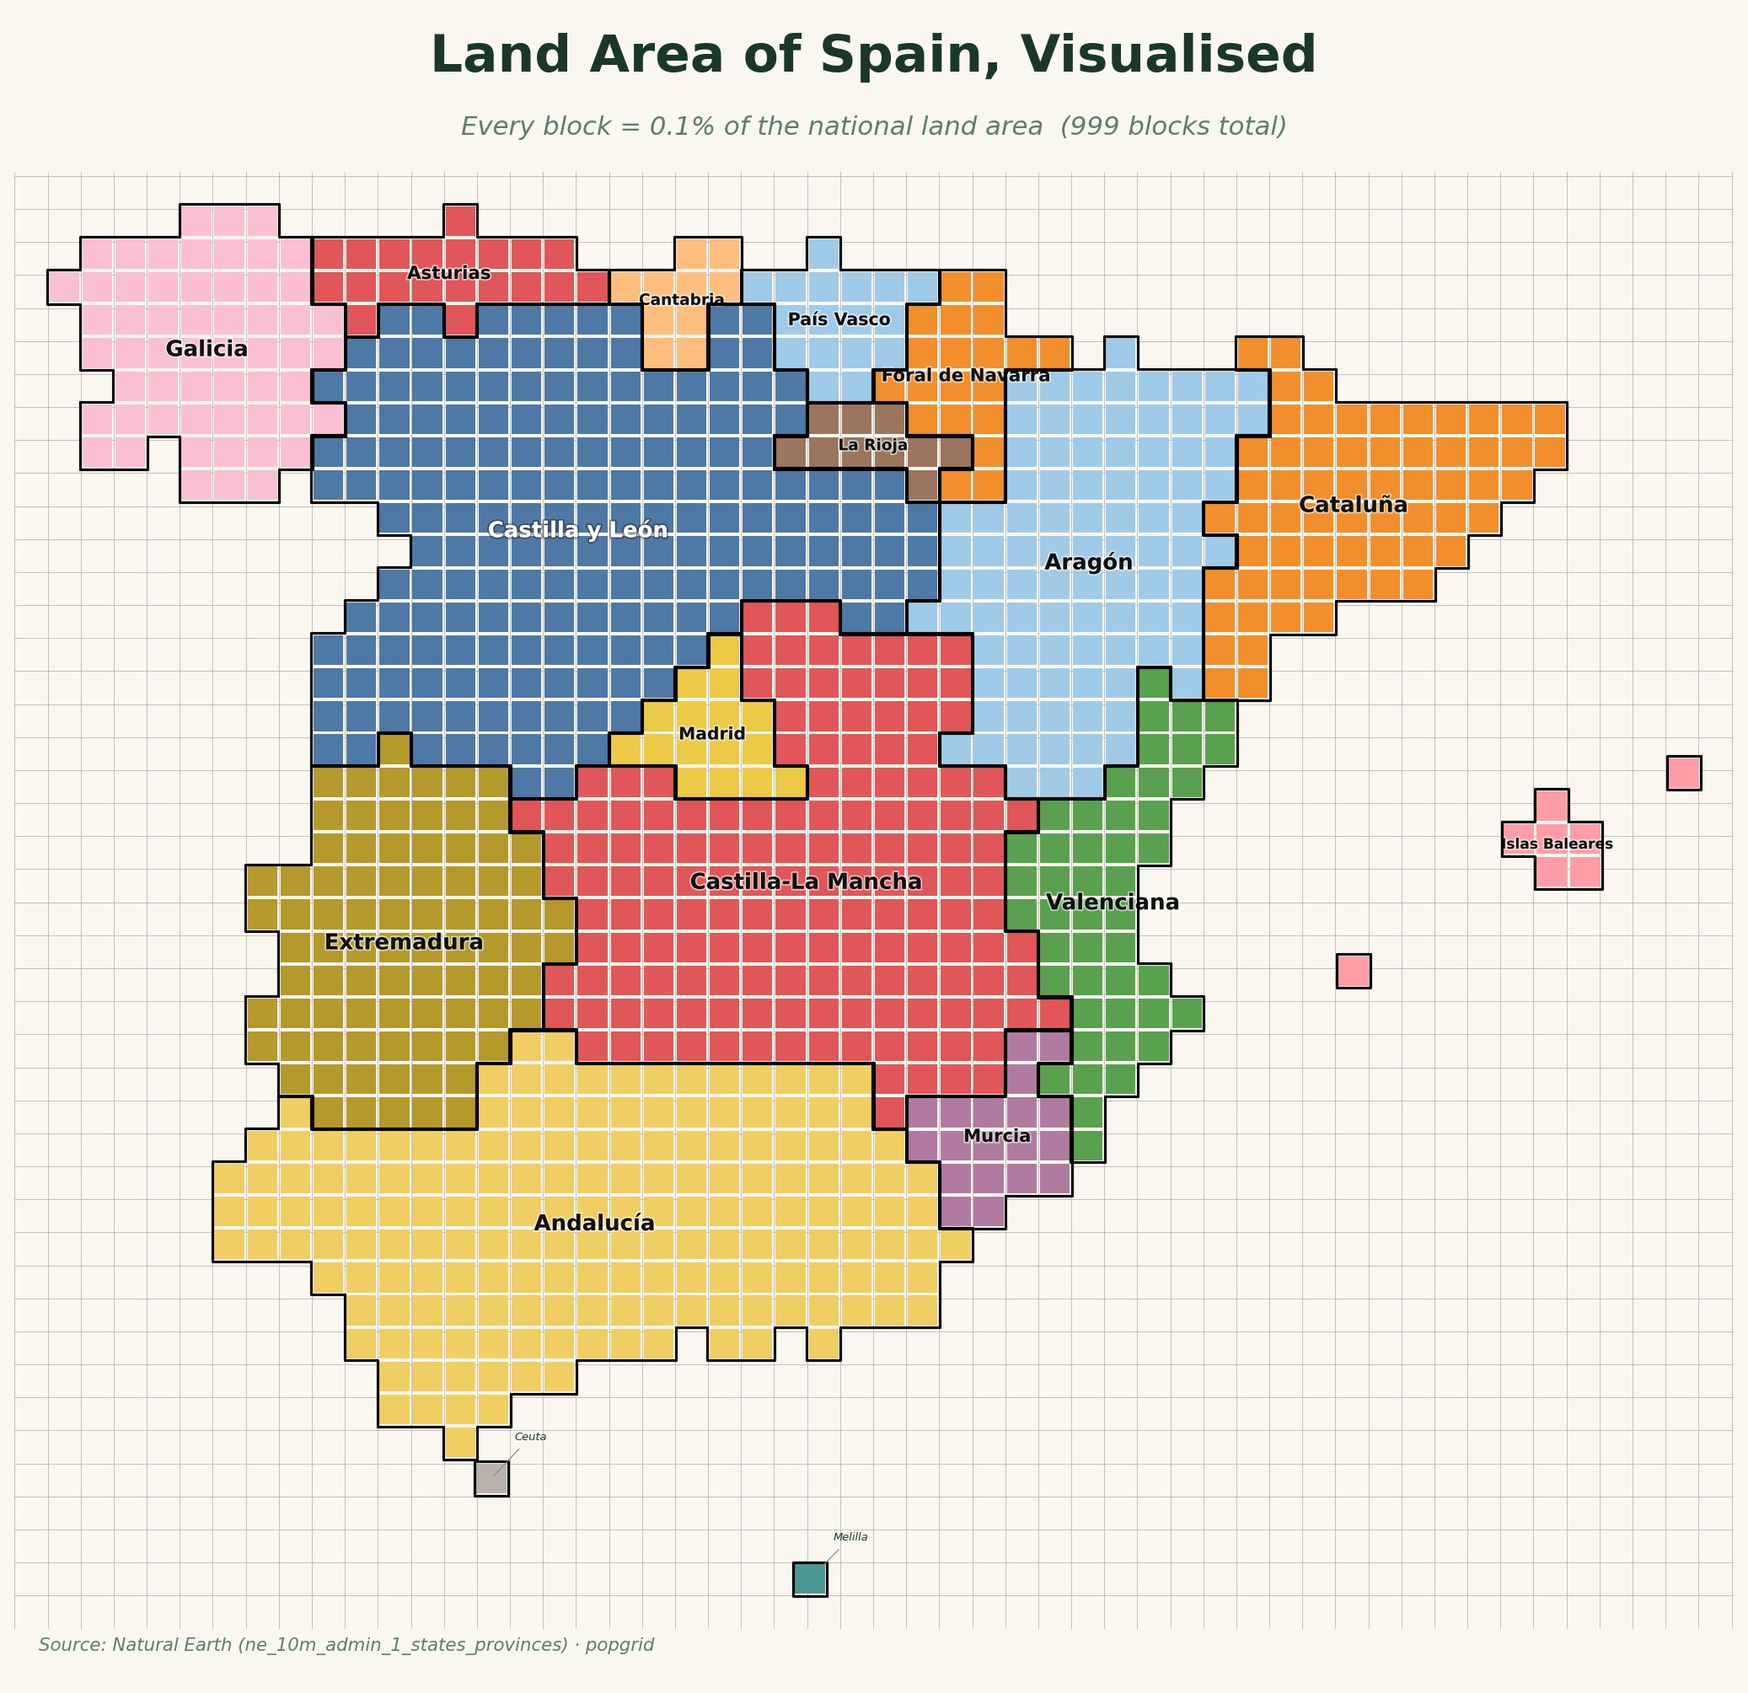
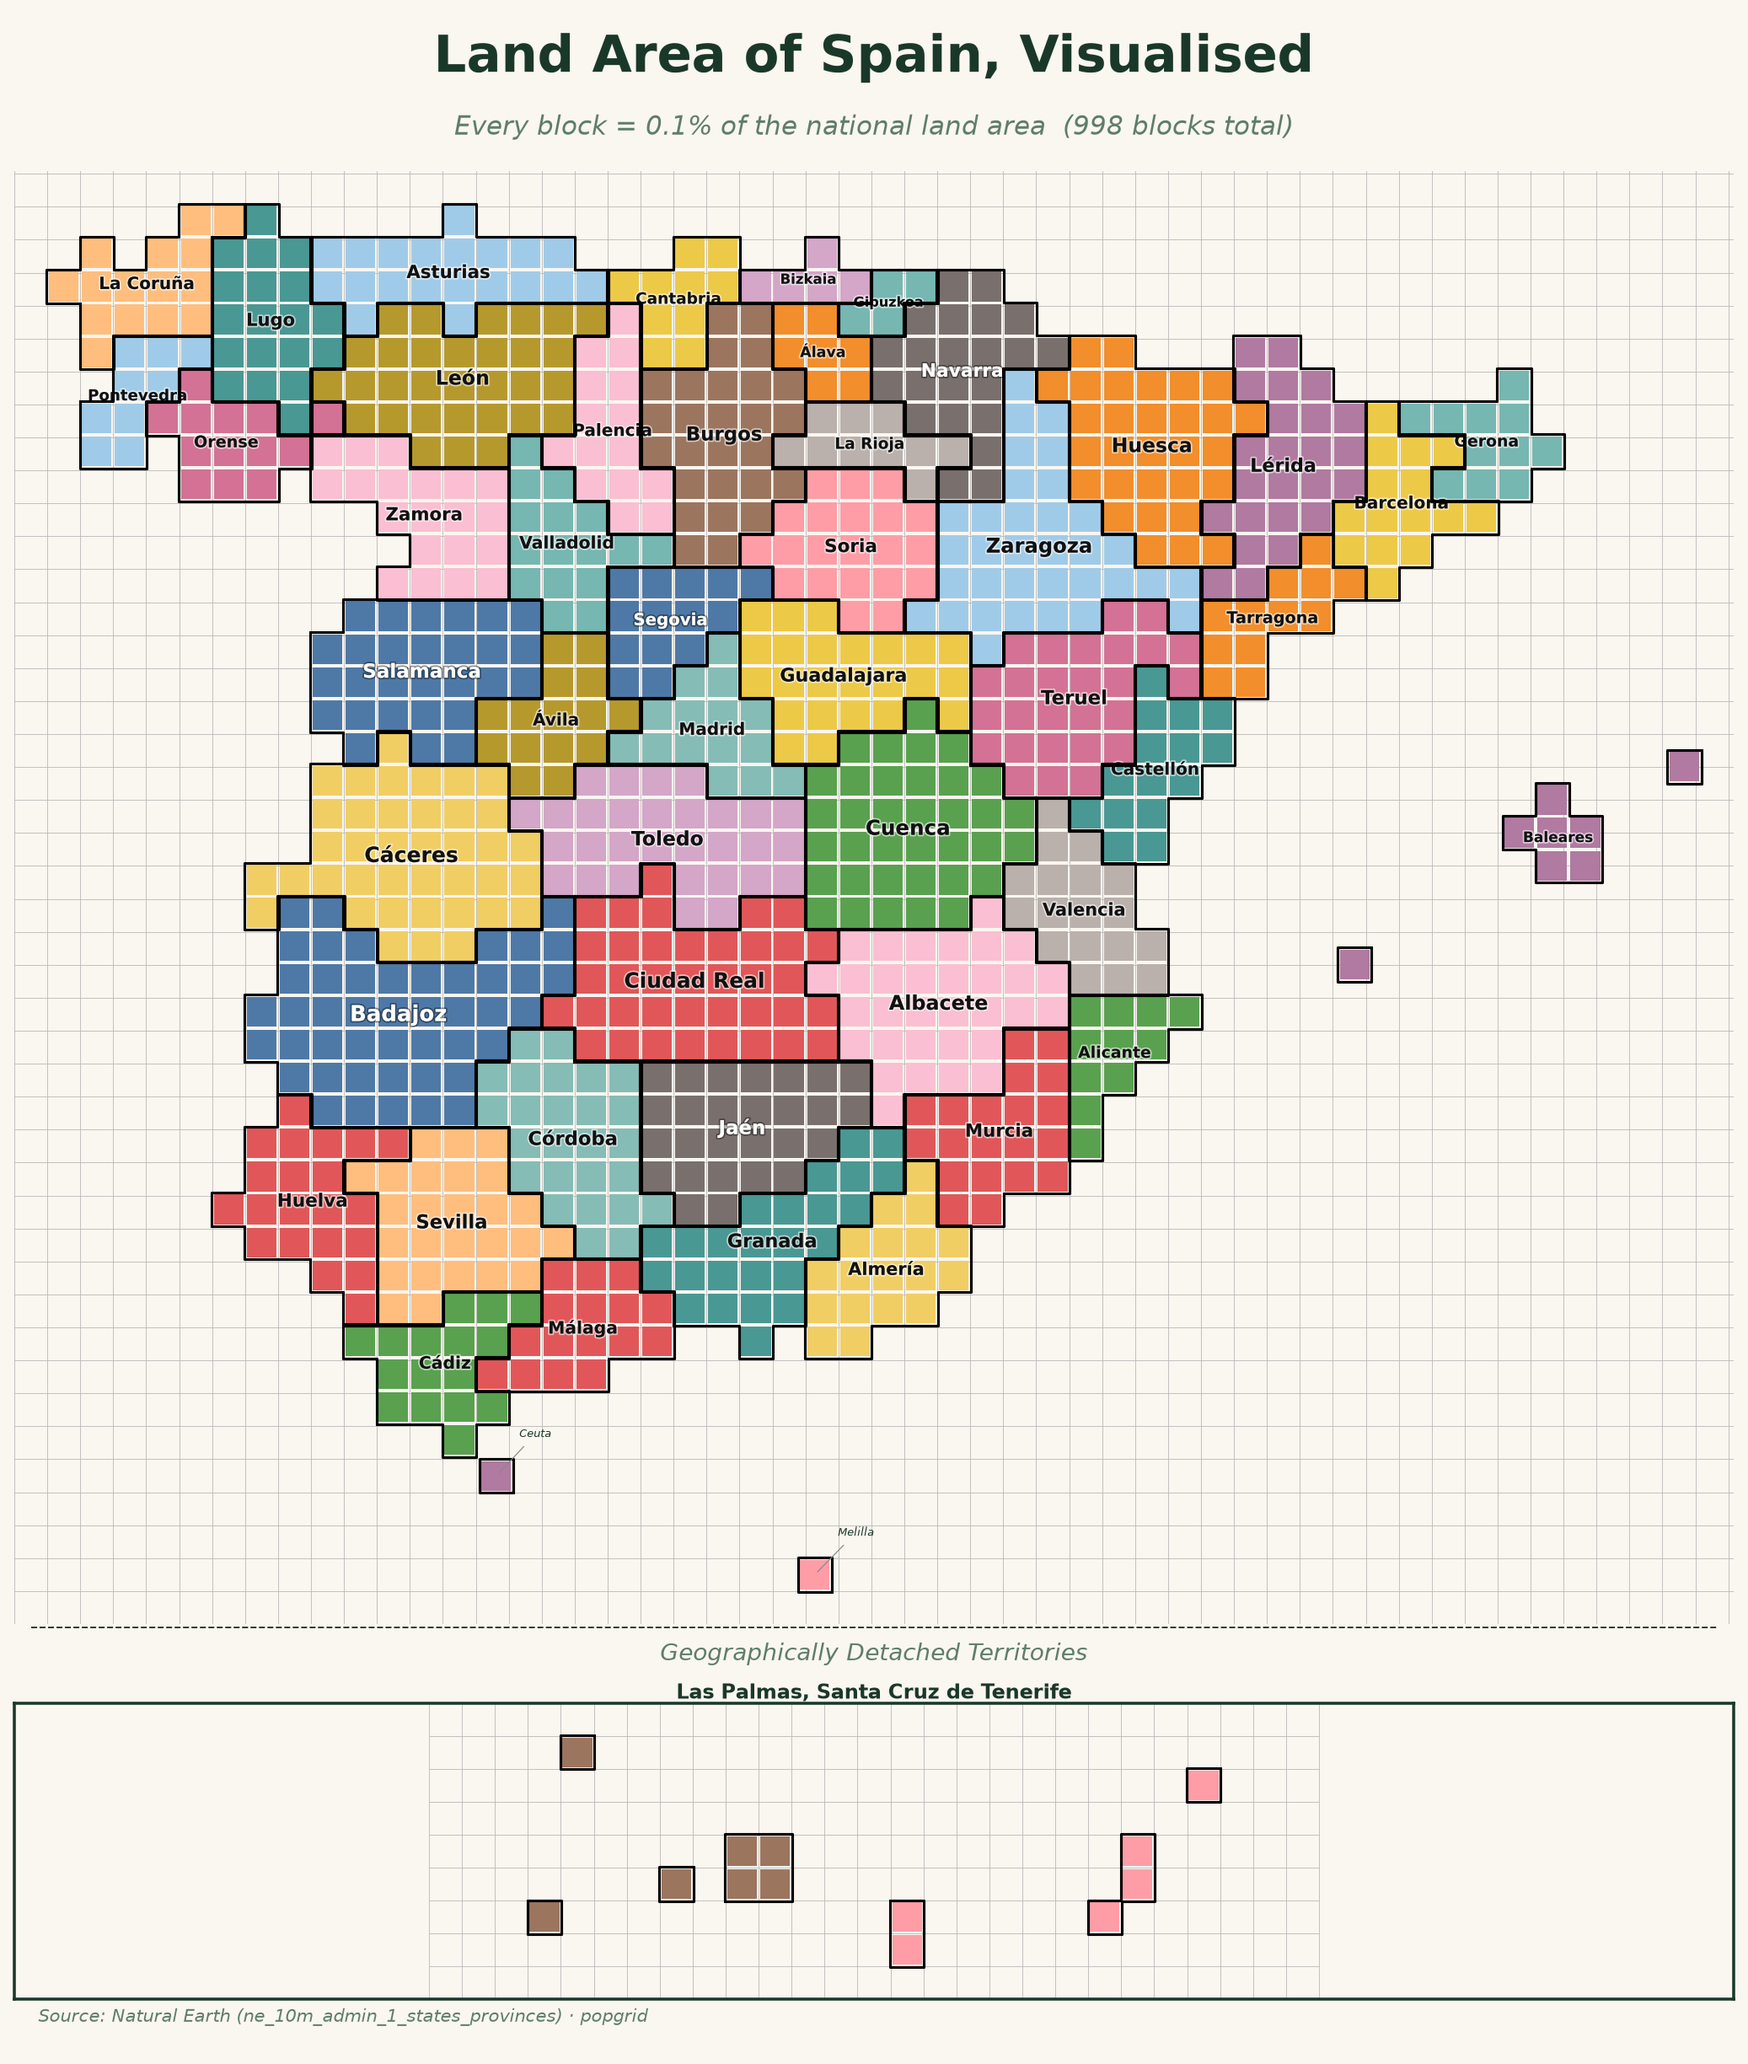
Spain per province: 52 provinces by default, real INE Census 2021 figures
- ESP now renders its 52 provinces; CCAA still available via dissolve_by='region'
- Replace mislabelled CCAA rows (mixed-year Padrón) with INE Census 2021 province
  populations (table 55226, national total 47,400,798)
- Tests for province loading, populations and CCAA aggregation
- Regenerate Spain images in README

diff --git a/popgrid/data.py b/popgrid/data.py
@@ -11,7 +11,8 @@ administrative unit.  The granularity differs per country:
   Germany (DEU)           16     Bundesländer  No  (already right)
   France  (FRA)          101     Départements  Yes → 'region' → 18 Régions
   Italy   (ITA)          110     Province      Yes → 'region' → 20 Regioni
-  Spain   (ESP)           52     Provincias    Yes → 'region' → 17+2 CCAA
+  Spain   (ESP)           52     Provincias    No  (already right;
+                                                    'region' → 17+2 CCAA)
   UK      (GBR)          232     Districts     No  ('region' gives English
                                                     sub-regions, not nations)
   USA     (USA)           51     States        No  ('region'=Census division)
@@ -55,7 +56,7 @@ _NE_SHP = "ne_10m_admin_1_states_provinces.shp"
 # Only countries where dissolve_by='region' has been verified to give the
 # correct, human-meaningful parent regions.
 KNOWN_DISSOLVE: dict[str, str] = {
-    "ESP": "region",  # 52 provinces → 17 CCAA + Ceuta + Melilla
+    "ESP": "region",  # optional: 52 provinces → 17 CCAA + Ceuta + Melilla
     "ITA": "region",  # 110 province → 20 regioni
     "FRA": "region",  # 101 départements → 18 régions
     "PHL": "region",  # 118 provinces → 17 regions
@@ -64,6 +65,7 @@ KNOWN_DISSOLVE: dict[str, str] = {
 # Countries where admin-1 is already the right display level.
 # dissolve_by=None is correct — listed here for documentation.
 ADMIN1_IS_CORRECT: list[str] = [
+    "ESP",  # 52 provinces (region = 17 CCAA + Ceuta + Melilla)
     "DEU",  # 16 Bundesländer
     "USA",  # 51 states (region = census division — too coarse)
     "BRA",  # 27 states
@@ -82,12 +84,12 @@ ADMIN1_IS_CORRECT: list[str] = [
 # Run ``python examples/inspect_country.py <ISO3>`` to check any country.
 RECOMMENDED_SETTINGS: dict[str, dict] = {
     # ── dissolve_by='region' gives the correct admin-1 parent level ──────────
-    "ESP": {"dissolve_by": "region"},  # 52 provinces  → 19 CCAA
     "ITA": {"dissolve_by": "region"},  # 110 province  → 20 regioni
     "FRA": {"dissolve_by": "region"},  # 101 depts     → 18 régions
     "PHL": {"dissolve_by": "region"},  # 118 provinces → 17 regions
 
     # ── Already at the correct admin-1 level (no dissolve needed) ────────────
+    "ESP": {"dissolve_by": None},   # 52 provinces
     "DEU": {"dissolve_by": None},   # 16 Bundesländer
     "USA": {"dissolve_by": None},   # 51 states  ← 'region' = census division (4 groups, wrong)
     "BRA": {"dissolve_by": None},   # 27 states
@@ -124,7 +126,7 @@ RECOMMENDED_SETTINGS: dict[str, dict] = {
 # Used in the default figure title: "{Country} by {label} in a square-based grid"
 # For dissolve_by='region' countries the label reflects the PARENT level.
 REGION_LABELS: dict[str, str] = {
-    "ESP": "Autonomous Communities",   # CCAA
+    "ESP": "Provinces",               # 52 provincias (dissolve to CCAA via "region")
     "ITA": "Regions",                  # dissolved from 110 province → 20 regioni
     "FRA": "Regions",                  # dissolved from 101 depts → 18 régions
     "PHL": "Regions",                  # dissolved from 118 provinces → 17 regions

diff --git a/tests/test_data.py b/tests/test_data.py
@@ -5,7 +5,14 @@ Tests for popgrid.data — region loading and dissolve logic.
 import pytest
 import geopandas as gpd
 
-from popgrid.data import load_country_regions, KNOWN_DISSOLVE
+from popgrid.data import (
+    KNOWN_DISSOLVE,
+    RECOMMENDED_SETTINGS,
+    REGION_LABELS,
+    admin1_parent_map,
+    load_country_regions,
+    load_region_populations,
+)
 from popgrid.exceptions import CountryNotFoundError
 
 
@@ -120,3 +127,65 @@ def test_dissolve_empty_column_falls_back_gracefully():
     gdf_raw = load_country_regions("DEU")
     gdf_dissolve = load_country_regions("DEU", dissolve_by="region")
     assert len(gdf_raw) == len(gdf_dissolve)
+
+
+# ── Spain — default level is provinces, CCAA via dissolve ────────────────────
+
+def test_spain_recommended_settings_use_provinces():
+    assert RECOMMENDED_SETTINGS["ESP"]["dissolve_by"] is None
+    assert REGION_LABELS["ESP"] == "Provinces"
+    # CCAA remain available as an explicit dissolve
+    assert KNOWN_DISSOLVE["ESP"] == "region"
+
+
+def test_spain_default_load_gives_52_provinces():
+    gdf = load_country_regions("ESP")
+    assert len(gdf) == 52
+    assert "Madrid" in gdf["region_name"].tolist()
+    assert "Barcelona" in gdf["region_name"].tolist()
+
+
+def test_spain_province_populations_sum_to_national_total(caplog):
+    names = load_country_regions("ESP")["region_name"].tolist()
+    pops = load_region_populations("ESP", names)
+
+    assert len(pops) == 52
+    assert all(p > 0 for p in pops.values())
+    # Every province is in population.csv — no mean-value fallback is used.
+    assert "No population data" not in caplog.text
+    assert sum(pops.values()) == 47_400_798
+
+
+def test_spain_province_populations_aggregate_to_ccaa():
+    names = load_country_regions("ESP")["region_name"].tolist()
+    pops = load_region_populations("ESP", names)
+    parent = admin1_parent_map("ESP")
+
+    ccaa: dict[str, int] = {}
+    for name in names:
+        ccaa[parent[name]] = ccaa.get(parent[name], 0) + pops[name]
+
+    # 17 CCAA + Ceuta + Melilla, matching INE Census 2021 CCAA totals.
+    assert len(ccaa) == 19
+    assert ccaa["Andalucía"] == 8_484_804
+    assert ccaa["Cataluña"] == 7_749_896
+    assert ccaa["Canary Is."] == 2_178_924
+    assert ccaa["País Vasco"] == 2_212_628
+    assert ccaa["Madrid"] == 6_726_640
+    assert ccaa["Ceuta"] == 84_071
+    assert ccaa["Melilla"] == 86_450
+
+
+def test_spain_dissolve_region_aggregates_provinces_up_to_ccaa():
+    gdf = load_country_regions("ESP", dissolve_by="region")
+    names = gdf["region_name"].tolist()
+    pops = load_region_populations(
+        "ESP", names, name_to_parent=admin1_parent_map("ESP")
+    )
+
+    assert len(names) == 19
+    assert len(pops) == 19
+    assert pops["Andalucía"] == 8_484_804
+    assert pops["Cataluña"] == 7_749_896
+    assert pops["Madrid"] == 6_726_640
+    assert sum(pops.values()) == 47_400_798

diff --git a/tests/test_core.py b/tests/test_core.py
@@ -82,7 +82,7 @@ def test_germany_color_map_values_are_hex(germany):
         assert hex_pattern.match(color), f"Invalid hex color '{color}' for '{name}'"
 
 
-# ── Spain — dissolve to CCAA ──────────────────────────────────────────────────
+# ── Spain — default provinces; dissolve to CCAA ──────────────────────────────
 
 @pytest.fixture(scope="module")
 def spain():
@@ -91,8 +91,8 @@ def spain():
     return pg
 
 
-def test_spain_has_ccaa_not_provinces(spain):
-    # Should have 19 (17 CCAA + Ceuta + Melilla), not 52 provinces
+def test_spain_dissolved_has_ccaa_not_provinces(spain):
+    # Explicit dissolve_by='region' → 19 (17 CCAA + Ceuta + Melilla)
     assert len(spain.regions) == 19
 
 

diff --git a/README.md b/README.md
@@ -9,10 +9,10 @@
 popgrid turns a country (or any set of regions) into a block cartogram where **every block is an equal share of the whole**: 0.1% of the national land area, or 0.1% of the population. Same regions, same colours, two ways of seeing them. Where land and people diverge is the whole point.
 
 <p align="center">
-  <img src="https://raw.githubusercontent.com/databites-tech/popgrid/main/docs/img/spain_compare.png" width="100%" alt="Land area vs population of Spain, side by side">
+  <img src="https://raw.githubusercontent.com/amunozo/popgrid/main/docs/img/spain_compare.png" width="100%" alt="Land area vs population of Spain, side by side">
 </p>
 
-Madrid is a sliver of land and a giant of population. The empty interior shrinks; the coasts and the capital swell. A block on the left is the same size as a block on the right, so the comparison is literally true.
+Spain is drawn by its 52 provinces. Madrid and Barcelona are slivers of land and giants of population; Soria, Teruel and Cuenca, huge on the land map, almost vanish. A block on the left is the same size as a block on the right, so the comparison is literally true. (Prefer the 17 autonomous communities? Pass `dissolve_by="region"`.)
 
 ---
 
@@ -40,7 +40,7 @@ AreaGrid("ESP").plot().savefig("spain_area.png", dpi=170, bbox_inches="tight")
 
 | Population | Land area |
 |---|---|
-| ![Population of Spain](https://raw.githubusercontent.com/databites-tech/popgrid/main/docs/img/spain_pop.png) | ![Land area of Spain](https://raw.githubusercontent.com/databites-tech/popgrid/main/docs/img/spain_area.png) |
+| ![Population of Spain](https://raw.githubusercontent.com/amunozo/popgrid/main/docs/img/spain_pop.png) | ![Land area of Spain](https://raw.githubusercontent.com/amunozo/popgrid/main/docs/img/spain_area.png) |
 
 `.plot()` builds the grid on first call and returns a Matplotlib figure, so you can save, show, or restyle it however you like.
 
@@ -76,7 +76,7 @@ Barcelona's 10 districts, built entirely from a custom GeoDataFrame. Eixample, t
 
 | Land area | Population |
 |---|---|
-| ![Land area of Barcelona](https://raw.githubusercontent.com/databites-tech/popgrid/main/docs/img/barcelona_area.png) | ![Population of Barcelona](https://raw.githubusercontent.com/databites-tech/popgrid/main/docs/img/barcelona_population.png) |
+| ![Land area of Barcelona](https://raw.githubusercontent.com/amunozo/popgrid/main/docs/img/barcelona_area.png) | ![Population of Barcelona](https://raw.githubusercontent.com/amunozo/popgrid/main/docs/img/barcelona_population.png) |
 
 A full runnable version is in [`examples/barcelona.py`](examples/barcelona.py), using the district boundaries in [`examples/data/barcelona_districts.geojson`](examples/data/barcelona_districts.geojson).
 

diff --git a/CHANGELOG.md b/CHANGELOG.md
@@ -12,6 +12,13 @@ All notable changes to popgrid are documented here.
   does not need ArcGIS.
 
 ### Changed
+- **Spain now defaults to its 52 provinces.** `AreaGrid("ESP")` / `PopGrid("ESP")`
+  render provinces (INE Census 2021 province populations) instead of the 19 autonomous
+  communities and cities. Pass `dissolve_by="region"` to keep the coarser
+  17 CCAA + Ceuta + Melilla view (province populations are summed up).
+- **Spanish population figures corrected.** The previous CCAA rows were labelled
+  "INE Census 2021" but were Padrón figures from mixed years (2016–2021). They are
+  now the actual INE Census 2021 province figures (national total 47,400,798).
 - `publish_hosted_feature_layer` now requires an authenticated `GIS` and raises a
   clear error instead of falling back to an anonymous session that cannot publish.
 
